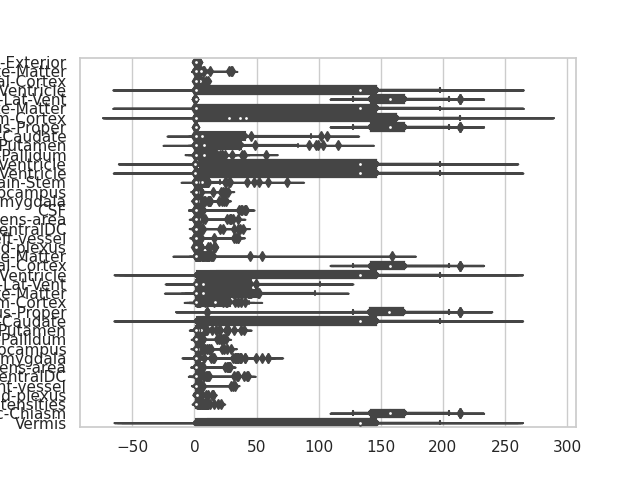
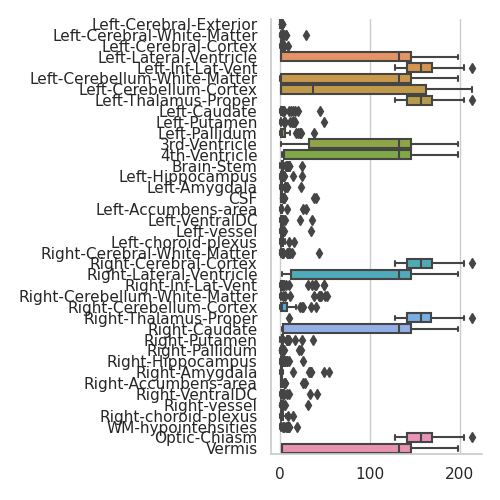
Created traditional box plots.

diff --git a/SynthSeg/dcan/paper/create_plots.py b/SynthSeg/dcan/paper/create_plots.py
@@ -29,7 +29,7 @@ def create_box_plots(results_dir, measures):
     # https://mode.com/blog/violin-plot-examples/
     for measure in measures:
         df = set_up_plot(measure, results_dir)
-        sns.boxplot(data=df, orient='h')
+        sns.catplot(data=df, orient='h', kind='box')
         plt.savefig(f'../../../img/paper/boxplot/{measure}.png')
 
 
@@ -41,7 +41,7 @@ def create_cat_plots(results_dir, measures):
         plt.savefig(f'../../../img/paper/catplot/{measure}.png')
 
 if __name__ == "__main__":
[1 lines of base64/hex data omitted]
+    results_folder = '/home/miran045/reine097/projects/SynthSeg/data/dcan/paper/measure_tables'
     msrs = ['dice', 'hausdorff', 'hausdorff_95', 'hausdorff_99', 'mean_distance']
     create_violin_plots(results_folder, msrs)
     create_box_plots(results_folder, msrs)
